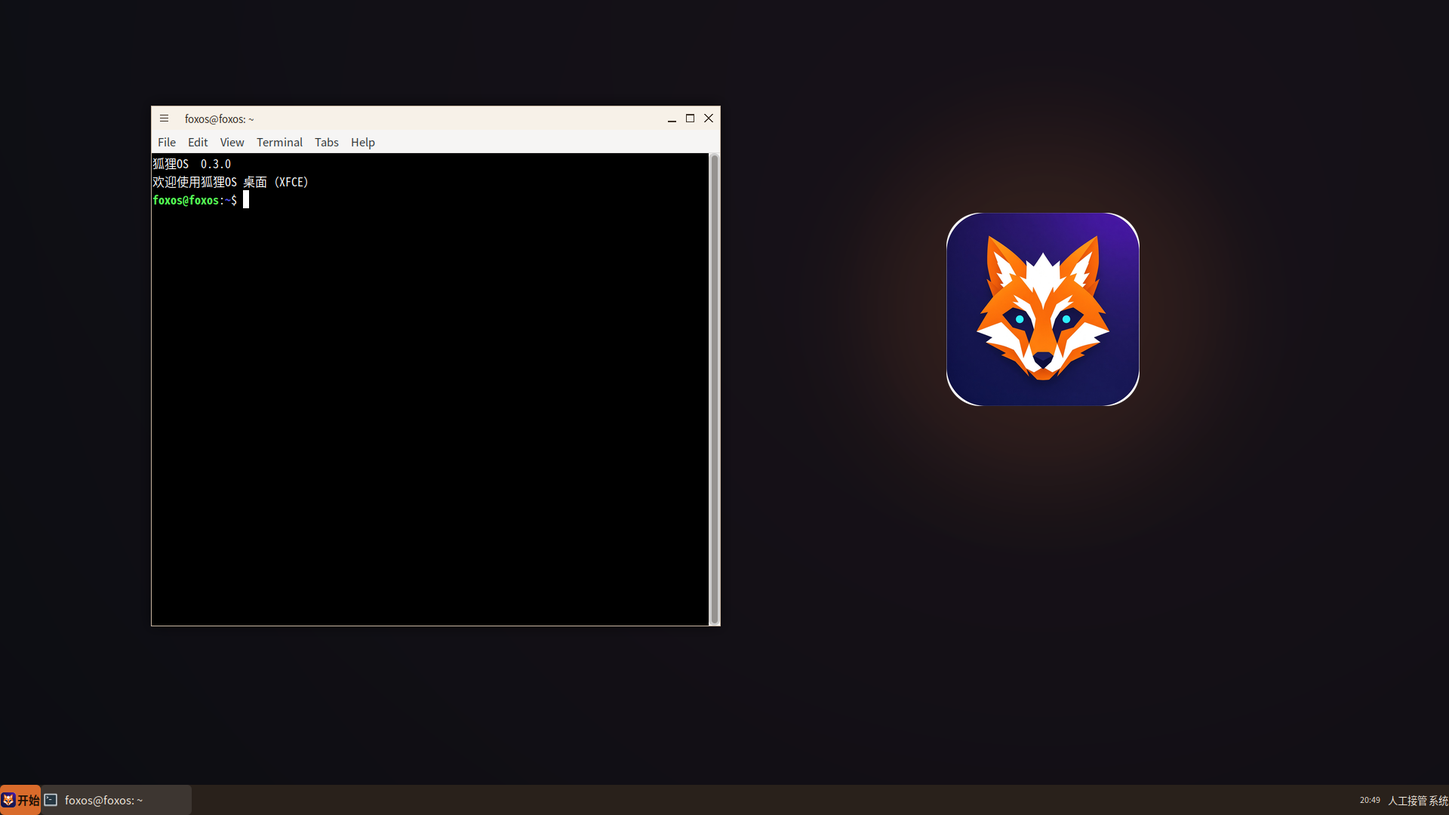
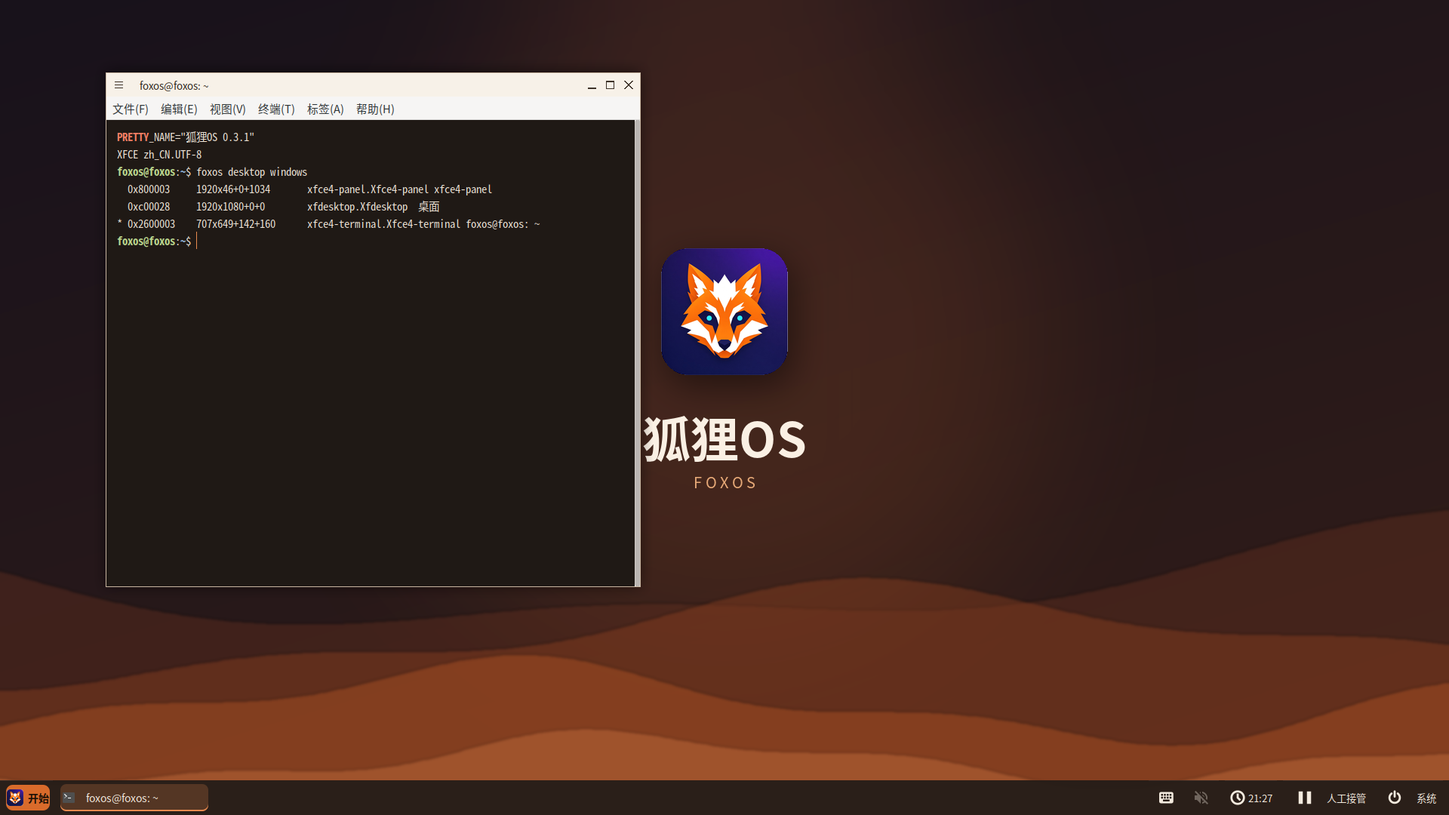
文档与截图：狐狸OS 0.3.1（XFCE）真实桌面截图、ISO 引导核对，下载链接改为 v0.3.1-os-preview，更新测试报告。

diff --git a/docs/os-test-guide.md b/docs/os-test-guide.md
@@ -1,40 +1,46 @@
-# 狐狸OS 0.3.0 预览版测试指南
+# 狐狸OS 0.3.1 预览版测试指南
 
-这是第一张**可引导、可安装**的 狐狸OS ISO（Ubuntu 24.04 基础，XFCE 桌面）。下面说明怎么在 U 盘、真实电脑、Hyper-V 和本机构建测试里启动它。Windows 上的 `.exe` 是伴侣程序，不是这张 ISO。
+这是可引导、可安装的 狐狸OS ISO（Ubuntu 24.04 基础，XFCE 桌面，默认简体中文）。下面说明怎么在 U 盘、真实电脑、Hyper-V 和本机构建测试里启动它。Windows 上的 `.exe` 是伴侣程序，不是这张 ISO。
 
-本仓库当前代码已经把默认图形会话改成 XFCE。在构建机上新做出来的 ISO 是：
-
-- `build/os/FoxOS-0.3.0-amd64.iso`：1534500864 字节（约 1.43 GiB，小于 2 GB）
[1 lines of base64/hex data omitted]
-
-下面表格与校验和仍对应 GitHub Release [v0.3.0-os-preview](https://github.com/gatesenman/foxos/releases/tag/v0.3.0-os-preview) 上已发布的分卷（更换 XFCE 之前的预览镜像）。新构建还没有拆分上传到该 Release。若要用 XFCE 这版，请在仓库里按 [os-build.md](os-build.md) 自行制作，或等待下一次发布。
-
-预发布：[v0.3.0-os-preview](https://github.com/gatesenman/foxos/releases/tag/v0.3.0-os-preview)
+预发布：[v0.3.1-os-preview](https://github.com/gatesenman/foxos/releases/tag/v0.3.1-os-preview)
 
 | 文件 | 说明 |
 | --- | --- |
-| `FoxOS-0.3.0-amd64.iso.part1` | 分卷 1（838860800 字节） |
-| `FoxOS-0.3.0-amd64.iso.part2` | 分卷 2（668198912 字节） |
-| `FoxOS-0.3.0-amd64.iso` | 拼接后的 Live + 安装镜像（UEFI，可选 BIOS），1507059712 字节，小于 2 GB |
+| `FoxOS-0.3.1-amd64.iso.part1` | 分卷 1（838860800 字节） |
+| `FoxOS-0.3.1-amd64.iso.part2` | 分卷 2（723613696 字节） |
+| `FoxOS-0.3.1-amd64.iso` | 拼接后的 Live + 安装镜像（UEFI，可选 BIOS），1562474496 字节，小于 2 GB |
 | `SHA256SUMS` | 校验和（含完整 ISO 与两个分卷） |
 
[2 lines of base64/hex data omitted]
+
+Linux / macOS：
 
 ```bash
-base=https://github.com/gatesenman/foxos/releases/download/v0.3.0-os-preview
-curl -L -O "$base/FoxOS-0.3.0-amd64.iso.part1"
-curl -L -O "$base/FoxOS-0.3.0-amd64.iso.part2"
+base=https://github.com/gatesenman/foxos/releases/download/v0.3.1-os-preview
+curl -L -O "$base/FoxOS-0.3.1-amd64.iso.part1"
+curl -L -O "$base/FoxOS-0.3.1-amd64.iso.part2"
 curl -L -O "$base/SHA256SUMS"
-cat FoxOS-0.3.0-amd64.iso.part1 FoxOS-0.3.0-amd64.iso.part2 > FoxOS-0.3.0-amd64.iso
-sha256sum -c SHA256SUMS
+cat FoxOS-0.3.1-amd64.iso.part1 FoxOS-0.3.1-amd64.iso.part2 > FoxOS-0.3.1-amd64.iso
+sha256sum -c SHA256SUMS --ignore-missing
 ```
+
+Windows（PowerShell）：
+
+```powershell
+cmd /c copy /b FoxOS-0.3.1-amd64.iso.part1+FoxOS-0.3.1-amd64.iso.part2 FoxOS-0.3.1-amd64.iso
+Get-FileHash -Algorithm SHA256 .\FoxOS-0.3.1-amd64.iso
+```
+
[1 lines of base64/hex data omitted]
+
+进入桌面后可以这样确认：底栏左下角是「开始」，右侧是时钟、「人工接管」和「系统」；打开终端（Super+回车）运行 `whoami`（应为 `foxos`）、`echo $XDG_CURRENT_DESKTOP`（应为 `XFCE`）和 `foxos desktop windows`（列出真实窗口）。默认是英文键盘，Ctrl+空格 切换拼音。
 
 ## 在 U 盘上写盘（推荐在真实电脑上试）
 
 在 Linux 上（把 `sdX` 换成你的 U 盘，先确认不会覆盖系统盘）：
 
 ```bash
-sudo dd if=FoxOS-0.3.0-amd64.iso of=/dev/sdX bs=4M status=progress conv=fsync
+sudo dd if=FoxOS-0.3.1-amd64.iso of=/dev/sdX bs=4M status=progress conv=fsync
 ```
 
 在 Windows 上可用 Rufus 或 `balenaEtcher`，把 ISO 写到 U 盘（DD / 镜像模式）。然后从 U 盘启动（UEFI 优先；部分机器也可走传统 BIOS）。
@@ -49,7 +55,7 @@ LibreOffice 与部分大型组件不在第一张 ISO 里，安装后按提示再
 
 在已启用虚拟化的 Windows 上：
 
-1. 新建第二代虚拟机（UEFI），挂上 `FoxOS-0.3.0-amd64.iso`，分配至少 4 GB 内存、2 个虚拟处理器和一块虚拟硬盘（若要安装）。
+1. 新建第二代虚拟机（UEFI），挂上 `FoxOS-0.3.1-amd64.iso`，分配至少 4 GB 内存、2 个虚拟处理器和一块虚拟硬盘（若要安装）。
 2. 启动后应进入与 U 盘相同的 Live 桌面。第一代（BIOS）也可以试，但优先用第二代。
 3. 若只看到文本控制台、没有桌面，请把日志或照片发回 issue，并说明是否开启了虚拟化（任务管理器 → 性能 → 虚拟化）。
 
@@ -64,7 +70,7 @@ QEMU / Docker 都不是狐狸OS 的运行时。完整来宾环境用内核 KVM +
 sudo FOXOS_OS_KEEP=1 scripts/os/build-iso.sh
 
 # 测试引导（有可用 KVM 时用 KVM，否则 TCG）
-scripts/os/qemu-boot.sh build/os/FoxOS-0.3.0-amd64.iso
+scripts/os/qemu-boot.sh build/os/FoxOS-0.3.1-amd64.iso
 ```
 
 本构建机若 `/dev/kvm` 存在但创建 vCPU 触发内核 BUG，请加 `--tcg`。这只影响开发机，不影响真实电脑或正常 Hyper-V。

diff --git a/docs/test-report.md b/docs/test-report.md
@@ -53,7 +53,7 @@
 | US-50 | 安装系统：目录与一键安装（Linux 宿主上真实安装 Alpine） | 通过 | 1 | 0 | 0 |
 | US-52 | 轻量隔离：Landlock + seccomp 真实限制；智能体在轻量沙箱中运行；Seatbelt / Windows 策略生成 | 通过 | 14 | 0 | 1 |
 | US-53 | 程序图标：每个程序显示其开源项目自带的图标（Everything 上游 / LibreOffice / 系统终端 / Code - OSS / Electron / ACP 注册表），缺失时退回并报告 | 通过 | 1 | 0 | 0 |
-| US-60 | 真实 XFCE 会话：列出/聚焦/移动/缩放窗口，键入与点击，人工接管（CLI 与 MCP） | 通过 | 3 | 0 | 0 |
+| US-60 | 真实 XFCE 会话：列出/聚焦/移动/缩放窗口，键入与点击，人工接管（CLI 与 MCP） | 通过 | 4 | 0 | 0 |
 | US-61 | linux-kvm 来宾与 foxos env run / desktop-attach（至少一个 Linux 来宾路径） | 通过 | 4 | 0 | 0 |
 
 ### 失败、跳过与已知缺陷的用例
@@ -67,11 +67,13 @@
 | US-46 | `everything.e2e.js` US-46 assets：本地打开，界面操作与 CLI 等价 | 跳过 | 上游提交 0fbb88cd 的 src/assets 只有 index.html/package.json/vite.config.js，缺少 index.html 引用的 /src/main.js（GitHub contents API 对 src/assets/src 返回 404），因此无法构建。 |
 | US-52 | `test_sandbox.py` test_windows_code_path_under_wine | 跳过 | 设置 FOXOS_TEST_WINE / FOXOS_TEST_WINE_PYTHON 后在 wine 中运行 Windows 代码路径 |
 
-## 操作系统会话与环境（2026-11-11 20:52，Asia/Shanghai）
+## 操作系统会话与环境（2026-11-11 21:55，Asia/Shanghai）
 
-本次将图形会话从 labwc 换成 XFCE 后，在同一 Linux 构建盒上重跑了 `npm run test:os`（US-60 / US-61），**没有**重跑 Electron 桌面的 Everything 端到端。上表中 US-01–US-53 的 Everything 结果仍是 2026-11-11 14:39 那一次 `test:all`。
+本次打磨 XFCE 桌面外观并重做 ISO（0.3.1）后，在同一 Linux 构建盒上重跑了 `npm run test:os`（US-60 / US-61），共 **8 通过、0 失败、0 跳过**（83.11 秒，最后一次在最终 ISO 构建之后运行）。**没有**重跑 Electron 桌面的 Everything 端到端；上表中 US-01–US-53 的 Everything 结果仍是 2026-11-11 14:39 那一次 `test:all`。
 
-- **US-60**（3 通过）：`packages/core/tests/test_os_session.py`。假后端覆盖列出、聚焦、移动、缩放、键入、点击、截图、关闭，以及 `desktop` / `session` 人工接管（智能体写操作返回 `PAUSED`）；MCP 工具目录含 `desktop_windows`、`desktop_move`、`session_takeover`。另在本机用 **Xvfb + xfwm4** 启动真实 XFCE 窗口管理器，打开两扇 xfce4-terminal 窗口，经 `wmctrl` 列出/聚焦/关闭/移动/缩放，用 `xdotool` 键入与点击，用 `scrot` 截图。程序化移动与缩放在 X11 上可用。
+- **US-60**（4 通过）：`packages/core/tests/test_os_session.py`。假后端覆盖列出、聚焦、移动、缩放、键入、点击、截图、关闭，以及 `desktop` / `session` 人工接管（智能体写操作返回 `PAUSED`）；新增用例确认不加 `--json` 时 `foxos desktop windows` / `session status` 也给人输出窗口列表与会话状态（之前是空输出）。MCP 工具目录含 `desktop_windows`、`desktop_move`、`session_takeover`。另在本机用 **Xvfb + xfwm4** 启动真实 XFCE 窗口管理器，打开两扇 xfce4-terminal 窗口，经 `wmctrl` 列出/聚焦/关闭/移动/缩放，用 `xdotool` 键入与点击，用 `scrot` 截图。程序化移动与缩放在 X11 上可用。
[1 lines of base64/hex data omitted]
+- **截图**：`docs/screenshots/os-desktop.png`、`os-desktop-session.png`、`os-terminal.png`、`os-editor.png` 由 `scripts/os/tools/shoot-desktop.sh` 生成：在 ISO 构建出的根文件系统上叠一层只读 overlay，以 Live 用户 `foxos`、`zh_CN.UTF-8`、主机名 `foxos` 用 `startxfce4` 启动真实会话（Xvfb 1920×1080），不是合成图。
 - **US-61**（4 通过）：`packages/core/tests/test_os_kvm.py`。`linux-kvm` 已登记为内置提供者；Linux 目录条目（如 Alpine）含该提供者；`foxos env run --iso --no-start` 与 `foxos env desktop-attach` 命令/MCP 已接通。此构建盒的 `/dev/kvm` 存在，但内核曾出现 `kvm_arch_vcpu_create` BUG，`foxos env doctor --provider linux-kvm` 会如实报告不可用；**不会**在未设置 `FOXOS_ALLOW_TEST_VMM=qemu-tcg` 时改用 QEMU。产品路径仍是 cloud-hypervisor + KVM，来宾桌面走 wayvnc。默认测试套件不引导狐狸OS ISO（太慢）；在支持 KVM 的机器上可用该 ISO 或目录中的 Linux 系统做来宾桌面。复现：`npm run test:os`。
 
 ## Everything 应用覆盖（51 个）

diff --git a/README.en.md b/README.en.md
@@ -4,7 +4,7 @@
 
 <p align="center">A desktop operating system for agents: real desktop apps, one <code>foxos</code> command line and MCP tool set for everything, audit log and human takeover, and a home-grown isolation layer.</p>
 
-<p align="center"><a href="README.md">中文</a> · <a href="https://github.com/gatesenman/foxos/releases/tag/v0.3.0-os-preview">Bootable ISO</a> · <a href="https://github.com/gatesenman/foxos/releases/tag/v0.2.0-windows-preview">Windows companion preview</a> · <a href="docs/os-test-guide.md">ISO test guide</a> · <a href="AGENTS.md">AGENTS.md</a></p>
+<p align="center"><a href="README.md">中文</a> · <a href="https://github.com/gatesenman/foxos/releases/tag/v0.3.1-os-preview">Bootable ISO</a> · <a href="https://github.com/gatesenman/foxos/releases/tag/v0.2.0-windows-preview">Windows companion preview</a> · <a href="docs/os-test-guide.md">ISO test guide</a> · <a href="AGENTS.md">AGENTS.md</a></p>
 
 ![FoxOS real desktop: XFCE, start menu, bottom panel, and terminal](docs/screenshots/os-desktop.png)
 
@@ -48,31 +48,38 @@ Captured from the running desktop (xvfb, 1600×1000) with real files created in 
 
 ## Download
 
-**Bootable ISO (recommended):** [v0.3.0-os-preview](https://github.com/gatesenman/foxos/releases/tag/v0.3.0-os-preview) (pre-release). Write it to USB or boot it in Hyper-V; see the [ISO test guide](docs/os-test-guide.md).
+**Bootable ISO (recommended):** [v0.3.1-os-preview](https://github.com/gatesenman/foxos/releases/tag/v0.3.1-os-preview) (pre-release). Write it to USB or boot it in Hyper-V; see the [ISO test guide](docs/os-test-guide.md).
 
 | File | What it is |
 | --- | --- |
-| `FoxOS-0.3.0-amd64.iso.part1` / `.part2` | Two parts of the complete ISO (1507059712 bytes after concat, ~1.40 GiB) |
-| `FoxOS-0.3.0-amd64.iso` | The assembled Live + installer image (UEFI + BIOS), amd64, under 2 GB |
+| `FoxOS-0.3.1-amd64.iso.part1` / `.part2` | Two parts of the complete ISO (838860800 + 723613696 bytes, 1562474496 bytes after concat, ~1.46 GiB) |
[1 lines of base64/hex data omitted]
 | `SHA256SUMS` | Checksums (complete ISO and both parts) |
 
-Uploading the single 1.4 GiB asset from this build environment was cut off mid-transfer, so the Release ships two parts. Concatenate them, then verify.
+The Release ships only the two parts: a single-file upload of the ~1.46 GiB ISO from this build environment was cut off mid-transfer, so concatenate the parts and then verify.
 
 ```bash
-base=https://github.com/gatesenman/foxos/releases/download/v0.3.0-os-preview
-curl -L -O "$base/FoxOS-0.3.0-amd64.iso.part1"
-curl -L -O "$base/FoxOS-0.3.0-amd64.iso.part2"
+base=https://github.com/gatesenman/foxos/releases/download/v0.3.1-os-preview
+curl -L -O "$base/FoxOS-0.3.1-amd64.iso.part1"
+curl -L -O "$base/FoxOS-0.3.1-amd64.iso.part2"
 curl -L -O "$base/SHA256SUMS"
-cat FoxOS-0.3.0-amd64.iso.part1 FoxOS-0.3.0-amd64.iso.part2 > FoxOS-0.3.0-amd64.iso
-sha256sum -c SHA256SUMS
+cat FoxOS-0.3.1-amd64.iso.part1 FoxOS-0.3.1-amd64.iso.part2 > FoxOS-0.3.1-amd64.iso
+sha256sum -c SHA256SUMS --ignore-missing
+```
+
+Windows (PowerShell):
+
+```powershell
+cmd /c copy /b FoxOS-0.3.1-amd64.iso.part1+FoxOS-0.3.1-amd64.iso.part2 FoxOS-0.3.1-amd64.iso
+Get-FileHash -Algorithm SHA256 .\FoxOS-0.3.1-amd64.iso
 ```
 
 Real-desktop screenshots:
 
 | | |
 | --- | --- |
-| ![FoxOS desktop](docs/screenshots/os-desktop.png)<br>**Desktop**: XFCE, bottom panel, start menu, terminal | ![Terminal](docs/screenshots/os-terminal.png)<br>**XFCE Terminal**: a real `foxos@foxos` session |
-| ![Text editor](docs/screenshots/os-editor.png)<br>**Text editor**: a standalone editor window (Mousepad is preinstalled on the ISO) | |
+| ![FoxOS desktop](docs/screenshots/os-desktop.png)<br>**Desktop**: XFCE, Whisker start menu (Chinese, Papirus icons), clock / takeover / system on the panel | ![Terminal](docs/screenshots/os-terminal.png)<br>**XFCE Terminal**: a real `foxos@foxos` session |
+| ![Text editor](docs/screenshots/os-editor.png)<br>**Text editor**: Mousepad with Chinese menus | ![Booted from the ISO](docs/screenshots/os-live-boot.png)<br>**Booted from the ISO**: the 0.3.1 live session in a VM, logged in as `foxos` on XFCE |
 
 **Windows x64 companion preview:** [v0.2.0-windows-preview](https://github.com/gatesenman/foxos/releases/tag/v0.2.0-windows-preview) (pre-release, not yet verified on real Windows hardware — see the [test checklist](docs/windows-test-guide.md)).
 

diff --git a/docs/docker.md b/docs/docker.md
@@ -12,15 +12,15 @@ The intended public repository is [`gatesenman/foxos`](https://hub.docker.com/r/
 
 ## 镜像标签 / Tags
 
-标签与 GitHub Release 版本对齐，例如 `v0.3.0-os-preview` 对应：
+标签与 GitHub Release 版本对齐，例如 `v0.3.1-os-preview` 对应：
 
 | 标签 | 作用 |
 |---|---|
-| `gatesenman/foxos:0.3.0-os-preview` | 试用：在有 KVM 的 Linux 宿主上，用 **cloud-hypervisor** 引导 **真正的** FoxOS ISO，把来宾桌面以 VNC / 网页暴露出来 |
-| `gatesenman/foxos:0.3.0-os-preview-installer` | 在线安装助手：只下载 GitHub Release 里的 ISO 并校验 sha256，不启动虚拟机 |
+| `gatesenman/foxos:0.3.1-os-preview` | 试用：在有 KVM 的 Linux 宿主上，用 **cloud-hypervisor** 引导 **真正的** FoxOS ISO，把来宾桌面以 VNC / 网页暴露出来 |
+| `gatesenman/foxos:0.3.1-os-preview-installer` | 在线安装助手：只下载 GitHub Release 里的 ISO 并校验 sha256，不启动虚拟机 |
 | `gatesenman/foxos:os-preview` | 指向当前预览试用标签（推送成功后才会有） |
 
-Tags follow the GitHub Release version. `v0.3.0-os-preview` maps to `gatesenman/foxos:0.3.0-os-preview` (trial) and `gatesenman/foxos:0.3.0-os-preview-installer` (ISO download + checksum only).
+Tags follow the GitHub Release version. `v0.3.1-os-preview` maps to `gatesenman/foxos:0.3.1-os-preview` (trial) and `gatesenman/foxos:0.3.1-os-preview-installer` (ISO download + checksum only).
 
 ## 试用（真 ISO，不是假桌面）/ Trial (real ISO, not a fake desktop)
 
@@ -30,7 +30,7 @@ The container does not paint a fake desktop. It boots the real release ISO with 
 
 ```bash
 # 需要 Linux 宿主，并且 CPU 支持虚拟化（VMX/SVM），把 KVM 传进容器
-docker pull gatesenman/foxos:0.3.0-os-preview
+docker pull gatesenman/foxos:0.3.1-os-preview
 
 docker run --rm -it \
   --device /dev/kvm \
@@ -38,7 +38,7 @@ docker run --rm -it \
   --cap-add NET_ADMIN \
   -p 5900:5900 -p 6080:6080 \
   -e FOXOS_ISO_SHA256='<把 Release 里 SHA256SUMS 的值贴这里>' \
-  gatesenman/foxos:0.3.0-os-preview
+  gatesenman/foxos:0.3.1-os-preview
 ```
 
 浏览器打开 `http://127.0.0.1:6080/vnc.html`，或用 VNC 客户端连 `127.0.0.1:5900`。来宾要到图形会话起来之后桌面才会出现，请多等一会儿。
@@ -56,14 +56,14 @@ If `/dev/kvm` is missing, the entrypoint exits with an explanation. It will **no
 ## 在线安装（只拉 ISO）/ Online install (ISO only)
 
 ```bash
-docker pull gatesenman/foxos:0.3.0-os-preview-installer
+docker pull gatesenman/foxos:0.3.1-os-preview-installer
 
 docker run --rm \
   -v "$PWD:/out" \
-  gatesenman/foxos:0.3.0-os-preview-installer
+  gatesenman/foxos:0.3.1-os-preview-installer
 ```
 
-当前目录会得到 `FoxOS-0.3.0-amd64.iso` 和 `SHA256SUMS`，脚本会按校验和验证。若 Release 上没有单个完整 ISO（目前是两个分卷），入口脚本会下载分卷、拼接后再校验。然后把 ISO 写到 U 盘，或在 Hyper-V / 本机虚拟机里启动。安装步骤见 [os-test-guide.md](os-test-guide.md)。
+当前目录会得到 `FoxOS-0.3.1-amd64.iso` 和 `SHA256SUMS`，脚本会按校验和验证。若 Release 上没有单个完整 ISO（目前是两个分卷），入口脚本会下载分卷、拼接后再校验。然后把 ISO 写到 U 盘，或在 Hyper-V / 本机虚拟机里启动。安装步骤见 [os-test-guide.md](os-test-guide.md)。
 
 The current directory receives the ISO and `SHA256SUMS`, verified by checksum. If the Release has no single ISO asset (it currently ships two parts), the entrypoint downloads the parts, concatenates them, and then verifies. Write it to USB or boot it in Hyper-V / a local VM. See [os-test-guide.md](os-test-guide.md).
 
@@ -72,8 +72,8 @@ The current directory receives the ISO and `SHA256SUMS`, verified by checksum. I
 在仓库根目录：
 
 ```bash
-docker build -f docker/os/Dockerfile -t gatesenman/foxos:0.3.0-os-preview .
-docker build -f docker/os/Dockerfile.installer -t gatesenman/foxos:0.3.0-os-preview-installer .
+docker build -f docker/os/Dockerfile -t gatesenman/foxos:0.3.1-os-preview .
+docker build -f docker/os/Dockerfile.installer -t gatesenman/foxos:0.3.1-os-preview-installer .
 ```
 
 不要在未得到 Sarah 同意、未登录其账号之前执行 `docker login` 或 `docker push`。CI 工作流是 `.github/workflows/docker.yml`，默认只构建；把 `push` 设为 true 且 Secrets 配好之后才会推送。

diff --git a/README.md b/README.md
@@ -5,7 +5,7 @@
 <p align="center">给智能体使用的桌面操作系统：真实的桌面与应用、统一的 <code>foxos</code> 命令与 MCP 工具、审计与人工接管、自研隔离环境。</p>
 
 <p align="center">
-  <a href="https://github.com/gatesenman/foxos/releases/tag/v0.3.0-os-preview">下载可引导 ISO</a> ·
+  <a href="https://github.com/gatesenman/foxos/releases/tag/v0.3.1-os-preview">下载可引导 ISO</a> ·
   <a href="https://github.com/gatesenman/foxos/releases/tag/v0.2.0-windows-preview">Windows 伴侣预览</a> ·
   <a href="#快速开始">快速开始</a> ·
   <a href="AGENTS.md">智能体接入</a> ·
@@ -69,32 +69,39 @@ Windows 上的 `.exe` 是**伴侣程序**（预览版见 [v0.2.0-windows-preview
 
 ## 下载
 
-**可引导 ISO（推荐）**：[v0.3.0-os-preview](https://github.com/gatesenman/foxos/releases/tag/v0.3.0-os-preview)（预发布）。写到 U 盘或在 Hyper-V 里启动，步骤见 [ISO 测试指南](docs/os-test-guide.md)。
+**可引导 ISO（推荐）**：[v0.3.1-os-preview](https://github.com/gatesenman/foxos/releases/tag/v0.3.1-os-preview)（预发布）。写到 U 盘或在 Hyper-V 里启动，步骤见 [ISO 测试指南](docs/os-test-guide.md)。
 
 | 文件 | 说明 |
 | --- | --- |
-| `FoxOS-0.3.0-amd64.iso.part1` / `.part2` | 完整 ISO 的两个分卷（拼接后 1507059712 字节，约 1.40 GiB） |
-| `FoxOS-0.3.0-amd64.iso` | 拼接得到的 Live + 安装镜像（UEFI + BIOS），amd64，小于 2 GB |
+| `FoxOS-0.3.1-amd64.iso.part1` / `.part2` | 完整 ISO 的两个分卷（838860800 + 723613696 字节，拼接后 1562474496 字节，约 1.46 GiB） |
[1 lines of base64/hex data omitted]
 | `SHA256SUMS` | 校验和（含完整 ISO 与两个分卷） |
 
-本构建环境向 GitHub 上传单个约 1.4 GiB 附件会在中途断开，所以 Release 上是两个分卷，拼起来后再校验。
+Release 上只有两个分卷：本构建环境单个上传约 1.46 GiB 的完整 ISO 时连接在中途断开，所以请把分卷拼起来再校验。
 
 ```bash
 # 下载两个分卷和校验和，拼回 ISO（版本号以 Release 页面为准）
-base=https://github.com/gatesenman/foxos/releases/download/v0.3.0-os-preview
-curl -L -O "$base/FoxOS-0.3.0-amd64.iso.part1"
-curl -L -O "$base/FoxOS-0.3.0-amd64.iso.part2"
+base=https://github.com/gatesenman/foxos/releases/download/v0.3.1-os-preview
+curl -L -O "$base/FoxOS-0.3.1-amd64.iso.part1"
+curl -L -O "$base/FoxOS-0.3.1-amd64.iso.part2"
 curl -L -O "$base/SHA256SUMS"
-cat FoxOS-0.3.0-amd64.iso.part1 FoxOS-0.3.0-amd64.iso.part2 > FoxOS-0.3.0-amd64.iso
-sha256sum -c SHA256SUMS
+cat FoxOS-0.3.1-amd64.iso.part1 FoxOS-0.3.1-amd64.iso.part2 > FoxOS-0.3.1-amd64.iso
+sha256sum -c SHA256SUMS --ignore-missing
+```
+
+Windows（PowerShell）：
+
+```powershell
+cmd /c copy /b FoxOS-0.3.1-amd64.iso.part1+FoxOS-0.3.1-amd64.iso.part2 FoxOS-0.3.1-amd64.iso
+Get-FileHash -Algorithm SHA256 .\FoxOS-0.3.1-amd64.iso
 ```
 
 真实桌面截图：
 
 | | |
 | --- | --- |
-| ![狐狸OS 桌面](docs/screenshots/os-desktop.png)<br>**桌面**：XFCE、底部面板、开始菜单、终端 | ![终端](docs/screenshots/os-terminal.png)<br>**XFCE 终端**：真实的 `foxos@foxos` 会话 |
-| ![文本编辑器](docs/screenshots/os-editor.png)<br>**文本编辑器**：系统里的独立编辑器窗口（ISO 预装 Mousepad） | |
+| ![狐狸OS 桌面](docs/screenshots/os-desktop.png)<br>**桌面**：XFCE、Whisker 开始菜单（中文、Papirus 图标）、底栏的时钟 / 人工接管 / 系统 | ![终端](docs/screenshots/os-terminal.png)<br>**XFCE 终端**：真实的 `foxos@foxos` 会话，`foxos desktop windows` 列出真实窗口 |
+| ![文本编辑器](docs/screenshots/os-editor.png)<br>**文本编辑器**：Mousepad，中文菜单 | ![从 ISO 引导](docs/screenshots/os-live-boot.png)<br>**从 ISO 引导**：0.3.1 Live 会话在虚拟机里自动登录 `foxos` 进入 XFCE |
 
 **Windows x64 伴侣预览**：[v0.2.0-windows-preview](https://github.com/gatesenman/foxos/releases/tag/v0.2.0-windows-preview)（预发布，尚未在 Windows 实机上验收，见 [Windows 测试清单](docs/windows-test-guide.md)）
 

diff --git a/docs/os.md b/docs/os.md
@@ -35,7 +35,15 @@
 3. 智能体控制窗口走成熟的 X11 工具：`wmctrl` 列出 / 聚焦 / 关闭 / 移动 / 缩放，`xdotool` 键入与点击，`scrot` 截图。
 4. 配置是普通的 xfconf XML 与面板插件，行为可审计、可测试。
 
-外观用狐狸OS 自己的窗口装饰与面板样式（暖色、克制，不以默认 Greybird 灰皮肤示人），GTK 控件建立在 Adwaita 之上；图标主题优先 Yaru（否则 Adwaita）。来源与许可见 `scripts/os/branding/xfce/ATTRIBUTION.md`。
+外观用狐狸OS 自己的窗口装饰与面板样式（暖色、克制，不以默认 Greybird 灰皮肤示人），GTK 控件建立在 Adwaita 之上：
+
+- **图标**：Papirus（`papirus-icon-theme`），开始菜单分类、应用和面板状态图标都完整渲染；没有 Papirus 时退回 Yaru / Adwaita。
+- **壁纸**：项目自制的暖色渐变与山脊，狐狸OS 图标和字样居中（`gen-wallpaper.py` 生成，可按分辨率重出）。
+- **底栏**：46 像素高，「开始」为狐狸橙圆角按钮；时钟、**人工接管**、**系统** 各带一个符号图标和左右留白。
+- **终端**：xfce4-terminal 用暖色深色配色（背景 `#1F1915`、光标狐狸橙）、Noto Sans Mono CJK SC 等宽中日韩字体，内容区四周留白。
+- **输入法**：Fcitx5 默认英文键盘，Ctrl+空格 切到简体拼音（拼音不放第一位，否则开机就是拼音，智能体键入的英文会变成候选词）。
+
+来源与许可见 `scripts/os/branding/xfce/ATTRIBUTION.md`。
 
 ### 面板、登录、安装器
 
@@ -96,7 +104,7 @@
 - 构建脚本在 `scripts/os/`，步骤写在 [os-build.md](os-build.md)。方法是 **debootstrap（Ubuntu 24.04）→ 在 chroot 里装包与换品牌 → squashfs → GRUB 混合 ISO（UEFI + BIOS）**。每一步都在脚本里，不使用说不清的封装器。
 - 可复现：固定发行版代号与软件源，记录包列表；可选组件不打进 ISO。
 - 端到端：用 QEMU/KVM **测试**引导 ISO（UEFI）、登录、给真实桌面和真实窗口截图、跑 `foxos` 与一次 MCP 会话、安装到虚拟磁盘并再引导。另测环境：在支持 KVM 的机器上启动一个 Linux 来宾。测试结果写入 `docs/test-report.md` 与用户故事 US-6x。`npm run test:all` 增加 `test:os` 目标。
-- 预发布（如 `v0.3.0-os-preview`）附 ISO、`SHA256SUMS` 和中文测试说明 [os-test-guide.md](os-test-guide.md)（Ventoy / Rufus / dd 写 U 盘，以及在 Hyper-V / 狐狸OS 环境里引导）。
+- 预发布（如 `v0.3.1-os-preview`）附 ISO、`SHA256SUMS` 和中文测试说明 [os-test-guide.md](os-test-guide.md)（Ventoy / Rufus / dd 写 U 盘，以及在 Hyper-V / 狐狸OS 环境里引导）。
 
 ## 7. 第一张 ISO 包含什么、稍后补什么
 

diff --git a/docs/cli-reference.md b/docs/cli-reference.md
@@ -794,7 +794,7 @@ foxos env run NAME [--image IMAGE] [--iso ISO] [--provider PROVIDER] [--network 
 
 ```bash
 foxos env run dev --image alpine-3.20
-foxos env run live --provider linux-kvm --iso FoxOS-0.3.0-amd64.iso --desktop-attach
+foxos env run live --provider linux-kvm --iso FoxOS-0.3.1-amd64.iso --desktop-attach
 ```
 
 ### `foxos env desktop-attach`
